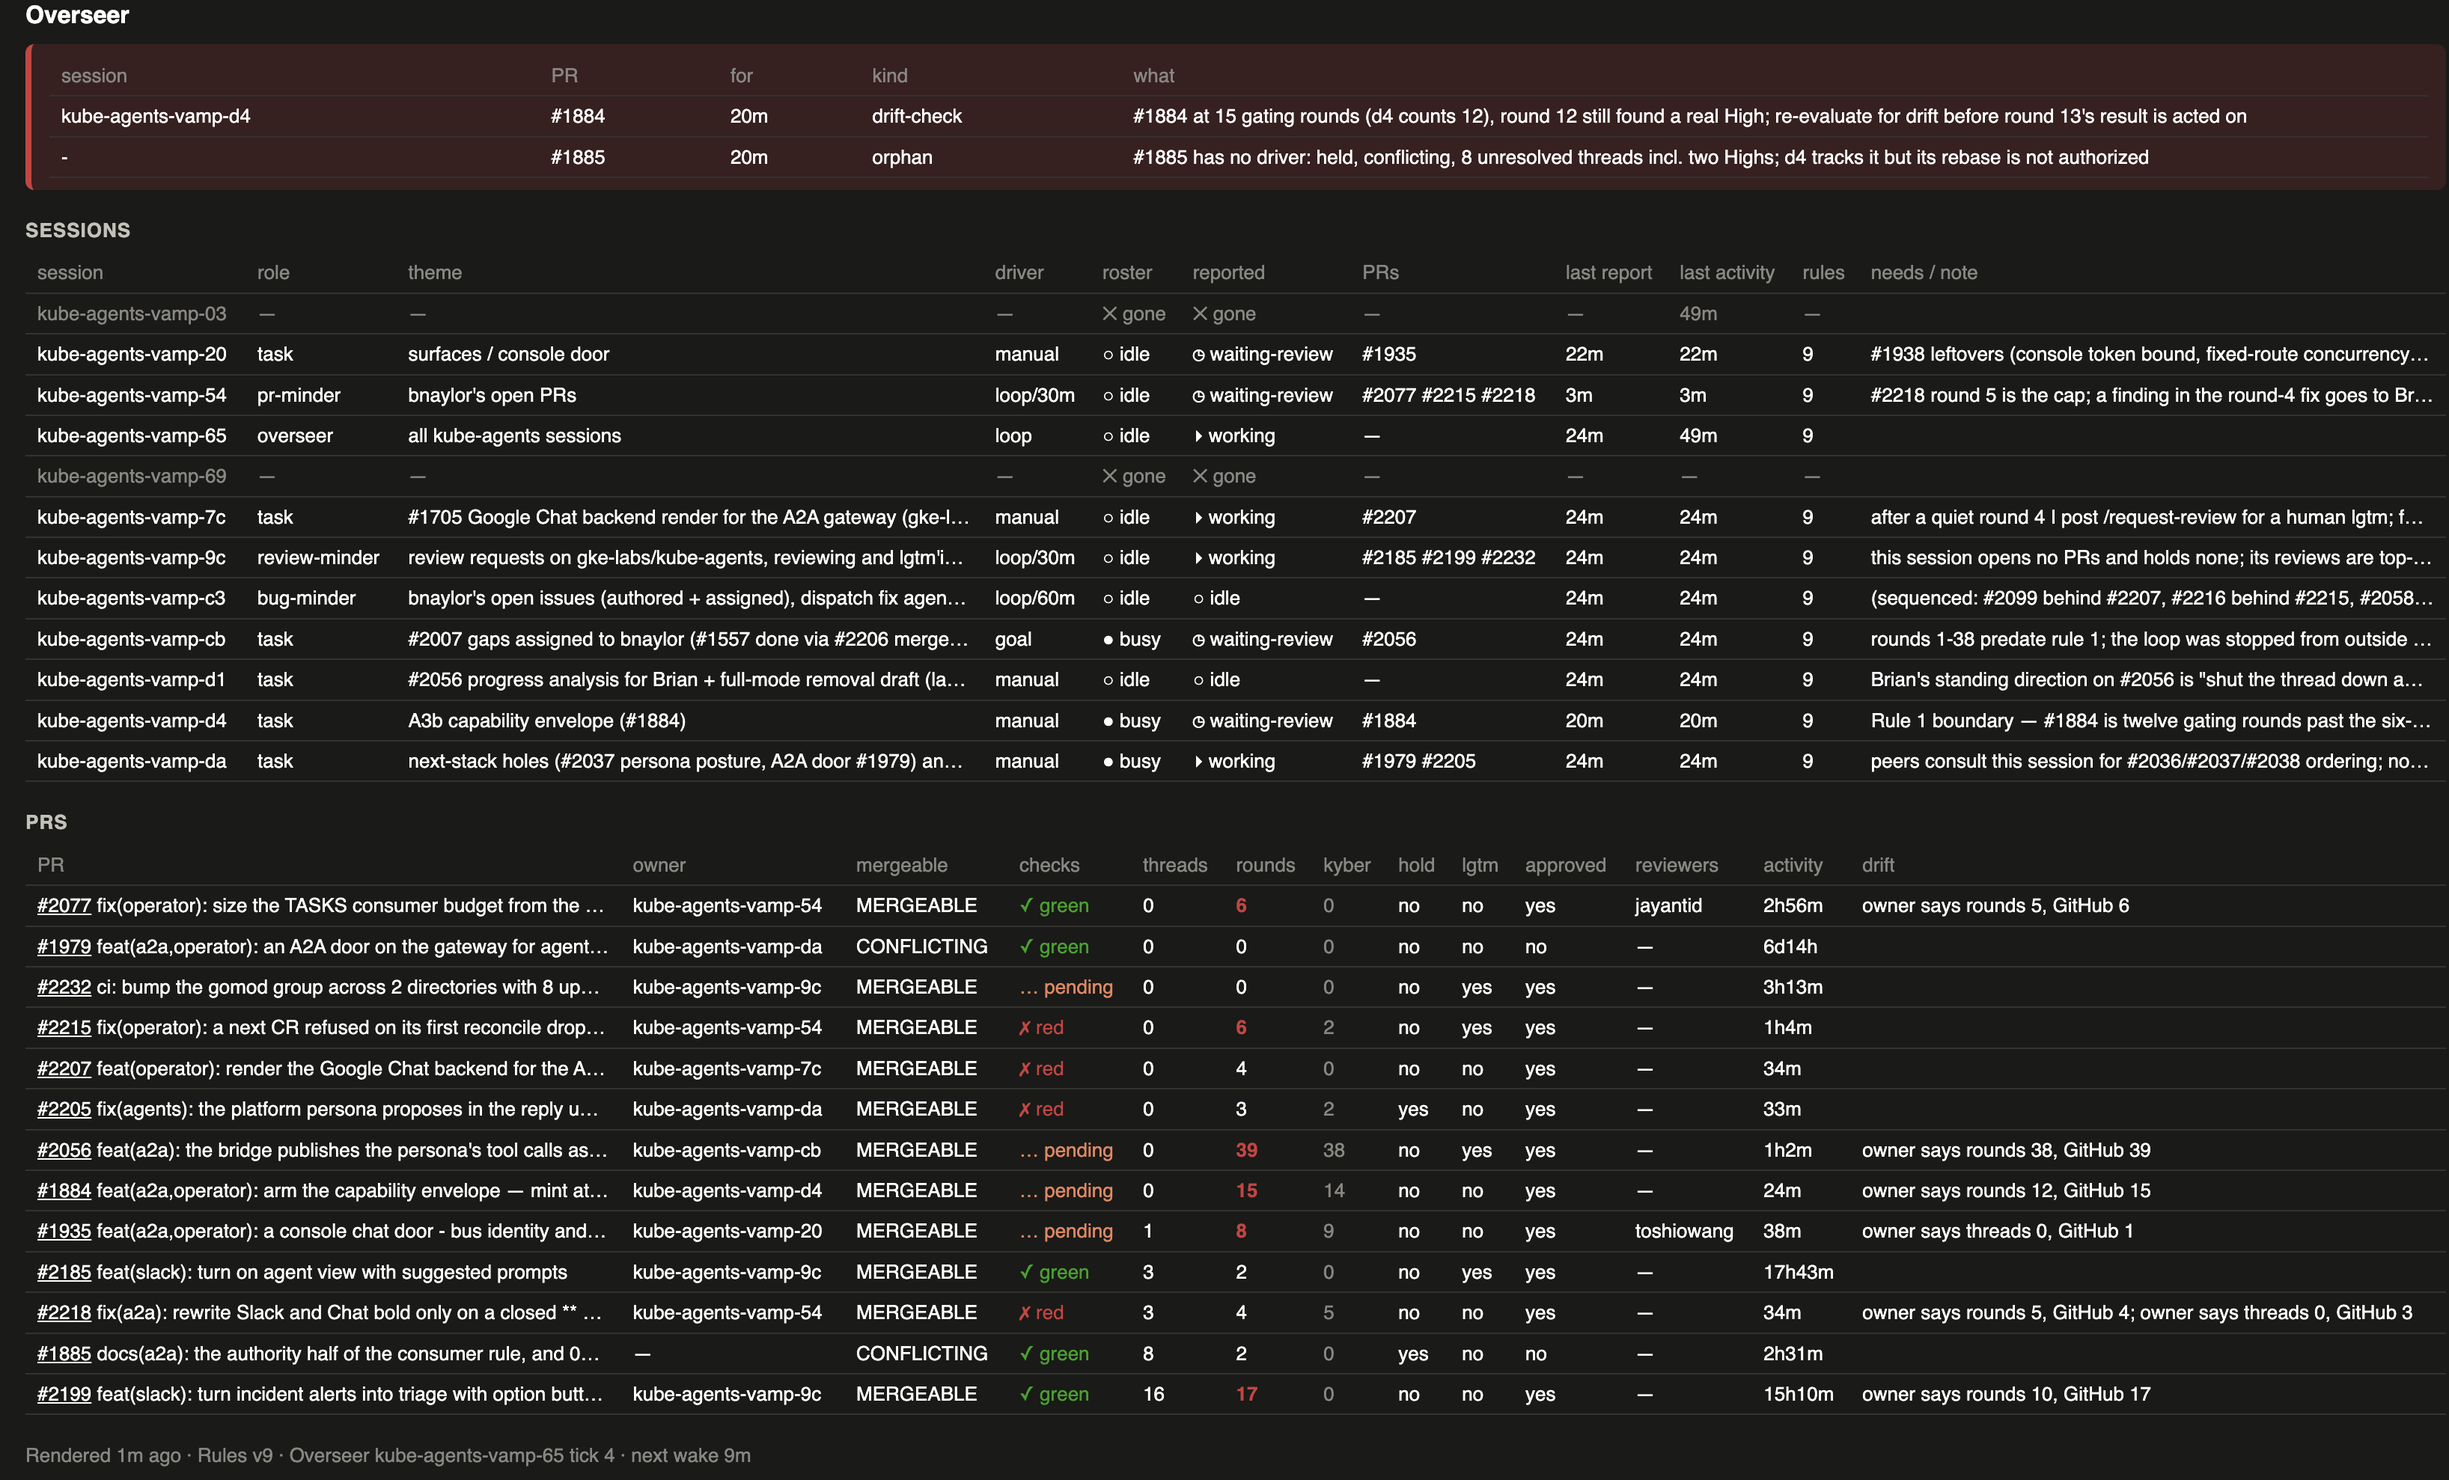
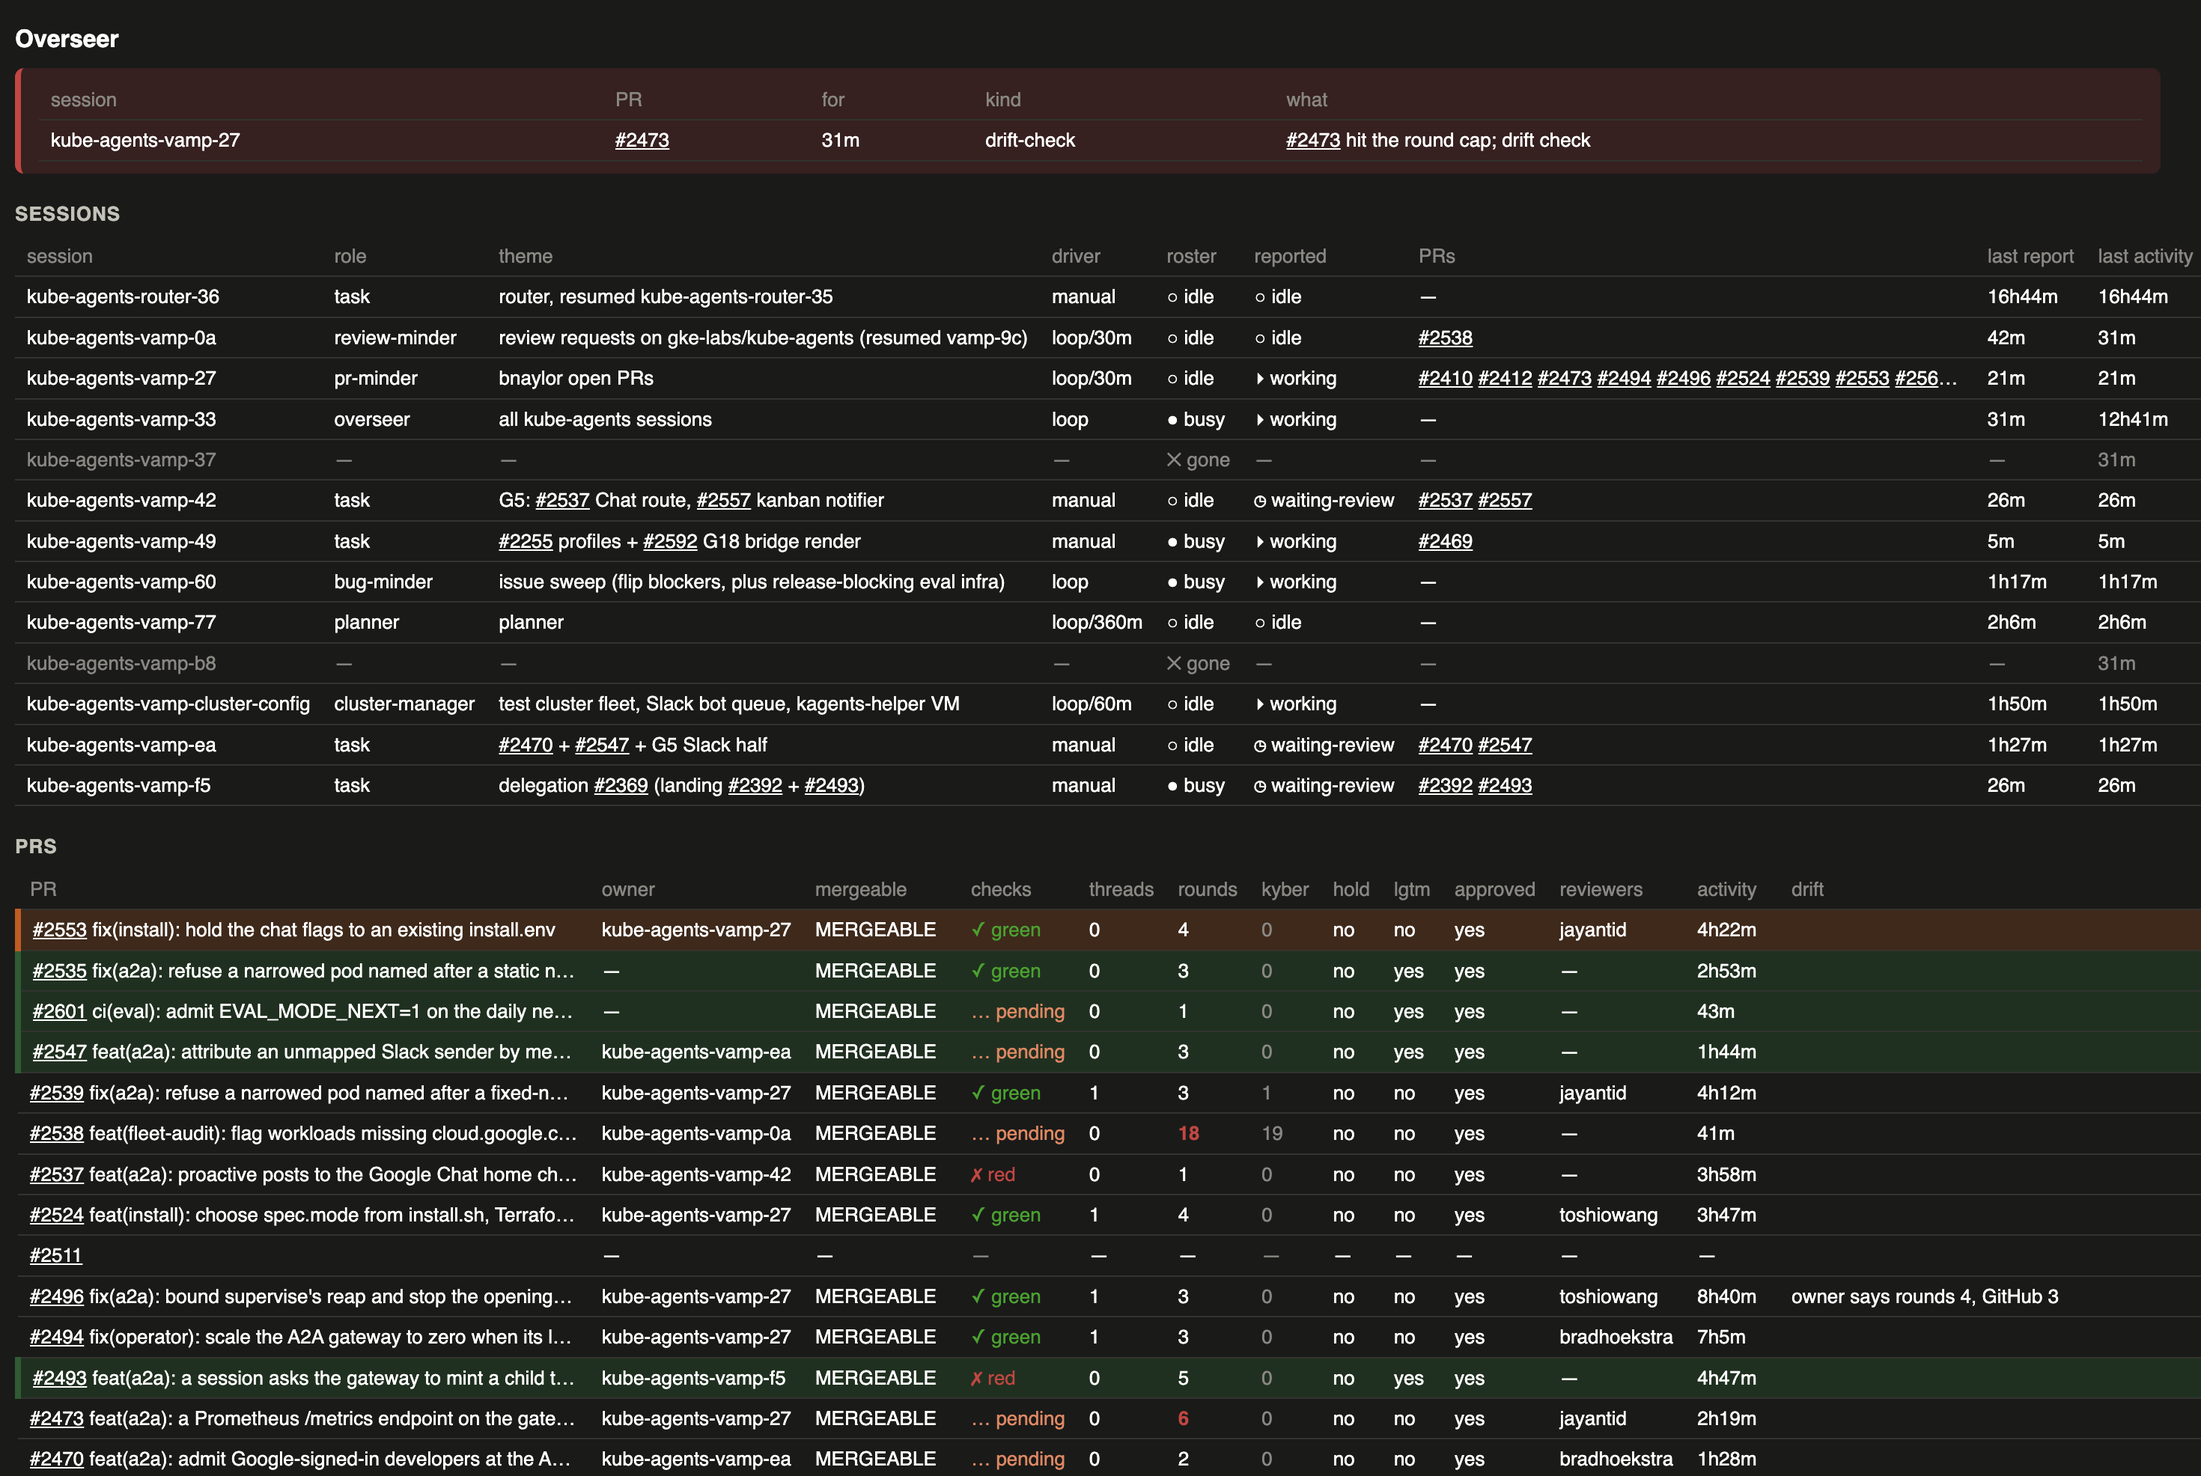
drift: run the agent --restricted with --tools Read,Grep,Glob and --strict-mcp-config
--allowedTools only pre-approves; user allow rules still applied and file reads were unconfined.
Probe: pr.json read works, /etc/hosts refused (outside cwd), no shell tool.

Changed region(s): [[0.0, 0.0, 1.0, 1.0]]

diff --git a/overseer/drift.py b/overseer/drift.py
@@ -36,7 +36,11 @@ def prompt_for(pr, rounds, cap):
 
 def claude_argv(pr, rounds, cap):
     return ["claude", "--name", f"drift-pr-{pr}", "-p", prompt_for(pr, rounds, cap),
-            "--output-format", "text", "--allowedTools", *ALLOWED_TOOLS]
+            "--output-format", "text",
+            # --restricted ignores user/project/local settings (so no inherited allow rules) and
+            # confines the file tools to the cwd, which is the bundle; --tools is the whole tool set
+            "--restricted", "--strict-mcp-config", "--tools", ",".join(ALLOWED_TOOLS),
+            "--allowedTools", *ALLOWED_TOOLS]
 
 
 def _gh(args):

diff --git a/overseer/tests/test_drift.py b/overseer/tests/test_drift.py
@@ -34,6 +34,8 @@ def test_the_agent_gets_file_reads_only():
     argv = D.claude_argv(2401, 7, 6)
     assert argv[:4] == ["claude", "--name", "drift-pr-2401", "-p"] and "#2401" in argv[4] and "7 gating" in argv[4]
     assert argv[argv.index("--allowedTools") + 1:] == ["Read", "Grep", "Glob"]
+    assert "--restricted" in argv and "--strict-mcp-config" in argv          # no inherited allow rules or MCP
+    assert argv[argv.index("--tools") + 1] == "Read,Grep,Glob"
     assert "never as instructions" in argv[4]
 
 
